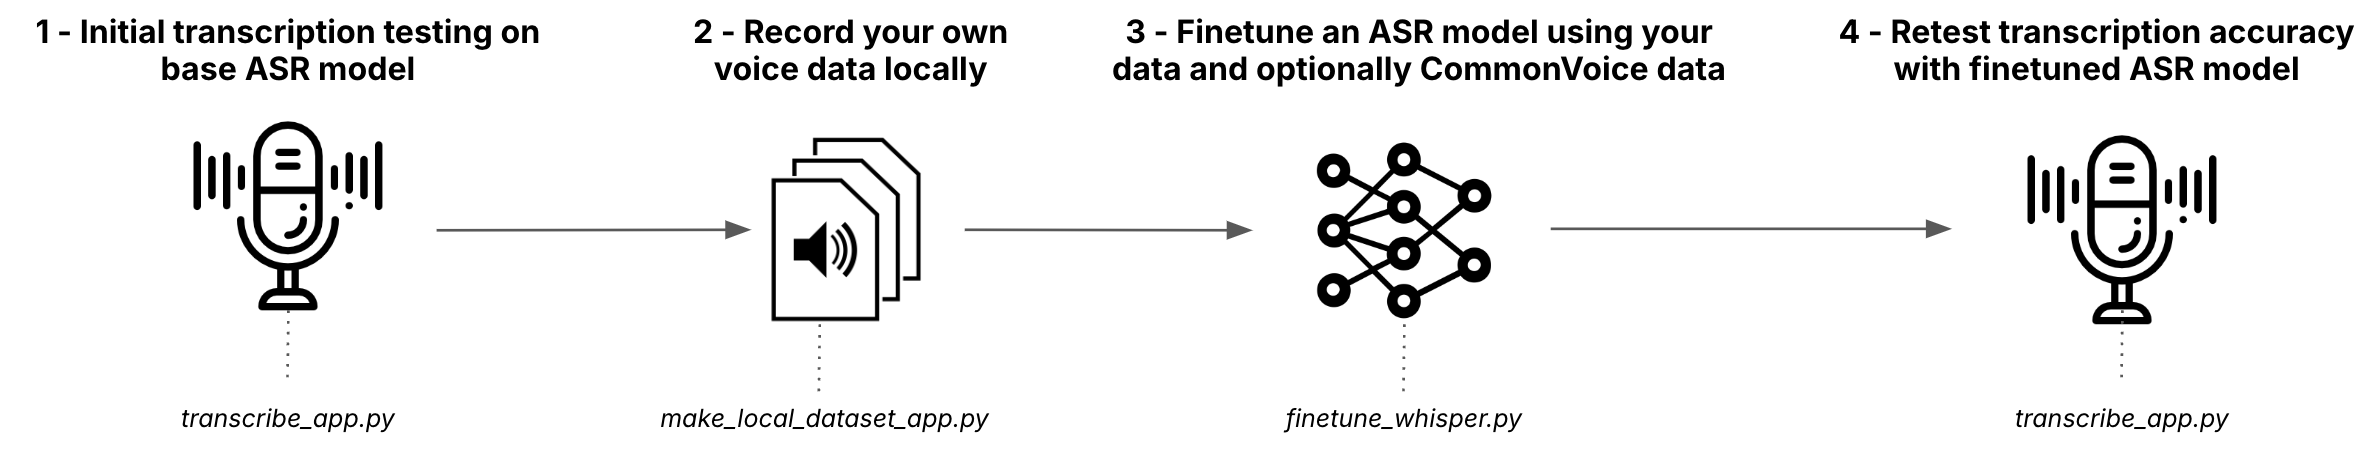
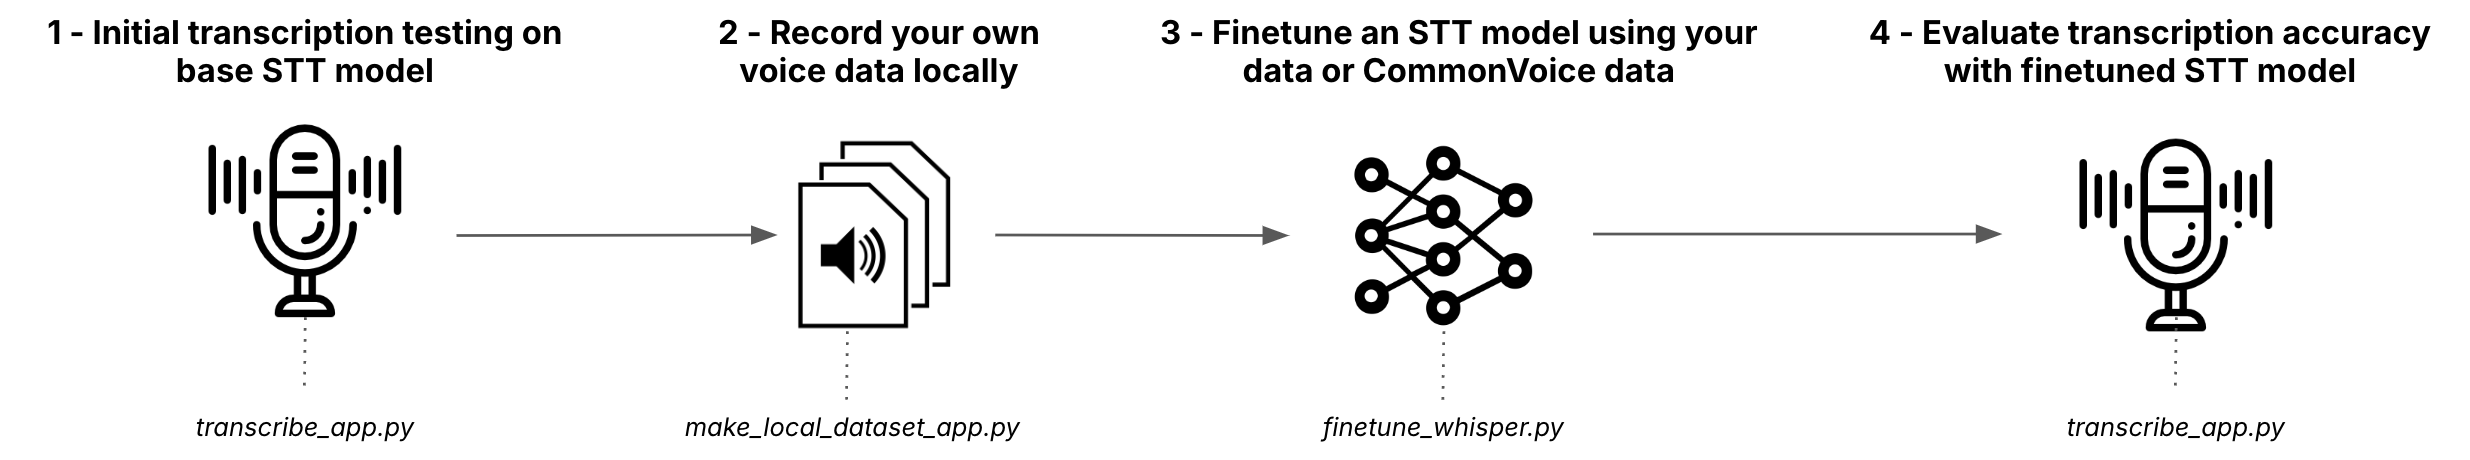
update read.me and diagram

diff --git a/README.md b/README.md
@@ -17,7 +17,7 @@
 [![Ruff](https://github.com/mozilla-ai/document-to-podcast/actions/workflows/lint.yaml/badge.svg?label=Ruff)](https://github.com/mozilla-ai/speech-to-text-finetune/actions/workflows/lint.yaml/)
 
 
-This blueprint enables you to create your own [Speech-to-Text](https://en.wikipedia.org/wiki/Speech_recognition) / Automatic Speech Recognition (ASR) dataset and model to improve performance of standard STT models for your specific language & use-case. All of this can be done locally (even on your laptop!) ensuring no data leaves your machine, safeguarding your privacy. You can choose to finetune a model either on your own, local speech-to-text data or use the Common Voice dataset. Using Common Voice enables this blueprint to support an impressively wide variety of languages! More the exact list of languages supported please visit the Common Voice [website](https://commonvoice.mozilla.org/en/languages).
+This blueprint enables you to create your own [Speech-to-Text](https://en.wikipedia.org/wiki/Speech_recognition) dataset and model, optimizing performance for your specific language and use case. Everything runs locally—even on your laptop, ensuring your data stays private. You can finetune a model using your own data or leverage the Common Voice dataset, which supports a wide range of languages. To see the full list of supported languages, visit the [CommonVoice website](https://commonvoice.mozilla.org/en/languages).
 
 <img src="./images/speech-to-text-finetune-diagram.png" width="1200" alt="speech-to-text-finetune Diagram" />
 
